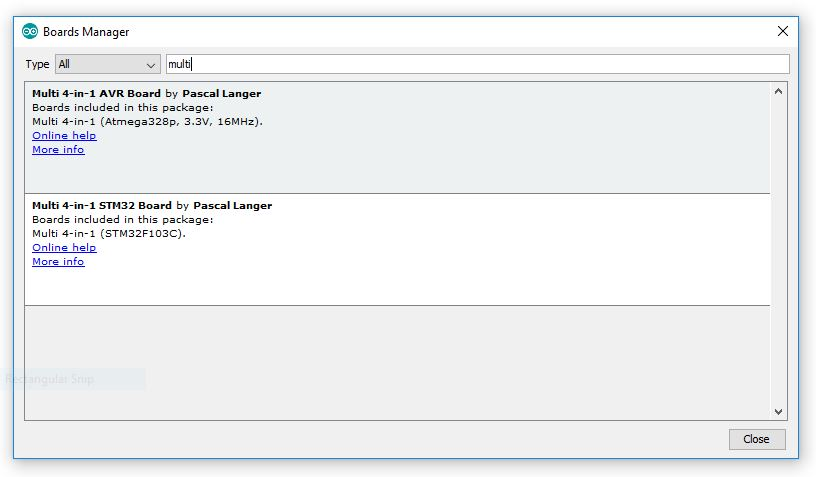
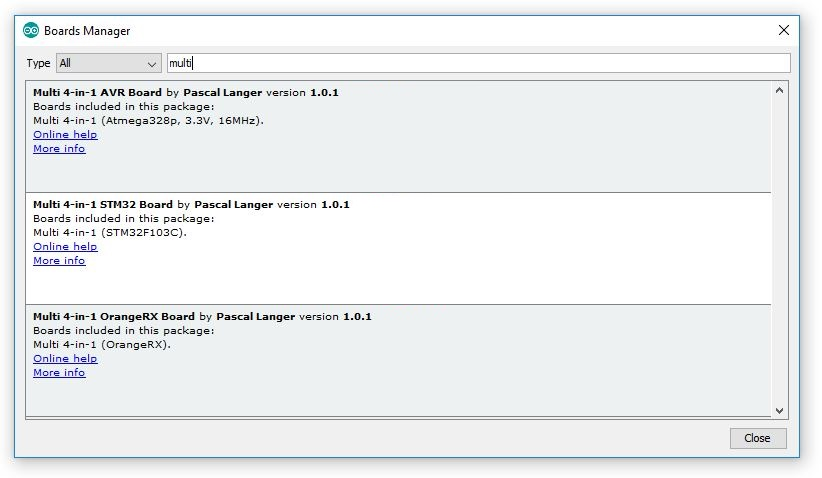
Doc updates for OrangeRX module (#123)

Changed region(s): [[0.0, 0.0294, 0.9804, 0.9686]]

diff --git a/BootLoaders/README.md b/BootLoaders/README.md
@@ -1,5 +1,5 @@
 # Arduino IDE board definitions for Multi 4-in-1
-Board definitions are available for both the Atmega328p and STM32F103C boards.  The board definitions make it easier to compile and install the multiprotocol module firmware.
+Board definitions are available for the Atmega328p, STM32, and OrangeRX modules.  The board definitions make it easier to compile and install the multiprotocol module firmware.
 
 ## Installing
 The board definitions are installed using the Arduino IDE Boards Manager.
@@ -32,13 +32,15 @@ The board definitions are installed using the Arduino IDE Boards Manager.
 ## Verify the boards are installed
 1. Click **Tools -> Board**
 2. Scroll down the list to the **Multi 4-in-1** board headings verify that the boards you installed are available:
-  * **Multi 4-in-1 (Atmega328p, 3.3V, 16MHz)** for the Atmega board
-  * **Multi 4-in-1 (STM32F103CB)** for the STM32 board
-  
-    ![Image of Yaktocat](/docs/images/boards-menu.jpg)
+    ![Image](/docs/images/boards-menu.jpg)
+    
+    * **Multi 4-in-1 (Atmega328p, 3.3V, 16MHz)** for the Atmega module
+    * **Multi 4-in-1 (STM32F103CB)** for the STM32 module
+    * **Multi 4-in-1 (OrangeRX)** for the OrangeRX module
 
 ## Compiling and Uploading
 Refer to the hardware-specific pages for information on compiling the firmware and uploading it to the multiprotocol module:
 
 * [Compiling for Atmega](/docs/Compiling.md)
 * [Compiling for STM32](/docs/Compiling_STM32.md)
+* [Compiling for OrangeRX](/docs/Compiling_OrangeTx.md)

diff --git a/README.md b/README.md
@@ -23,15 +23,15 @@ If you like this project and want to support further development please consider
 * [Available Protocols list](Protocols_Details.md)
 * [The old documentation](docs/README-old.md)
 
-
 ## Outline of the documentation
 1. Introduction (this page)
 1. [Available protocols](Protocols_Details.md)
 1. [Transmitters and serial/telemetry options](docs/Transmitters.md)
 1. [Module Hardware options](docs/Hardware.md)
 1. Compiling and programming the module
-    * [4in1/DIY Multiprotocol module based on ATmega328](docs/Compiling.md)
-    * [DIY Multiprotocol module based on STM32](docs/Compiling_STM32.md)
+    * [Atmega328p Multiprotocol Module](docs/Compiling.md)
+    * [STM32 Multiprotocol Module](docs/Compiling_STM32.md)
+    * [OrangeRX Module](docs/Compiling_OrangeTx.md)
 1. [Transmitter Setup](docs/Transmitters.md) 
 1. [How to for popular models](docs/Models.md)
 1. [Troubleshooting](docs/Troubleshooting.md)
